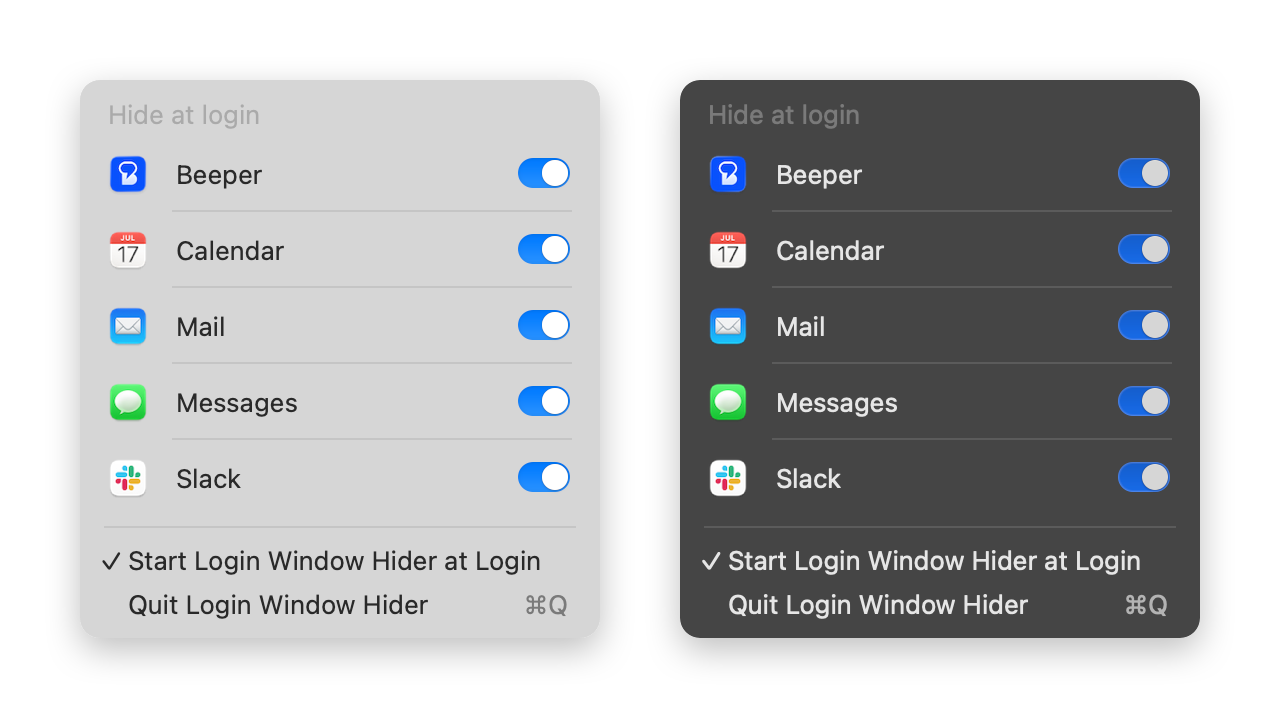
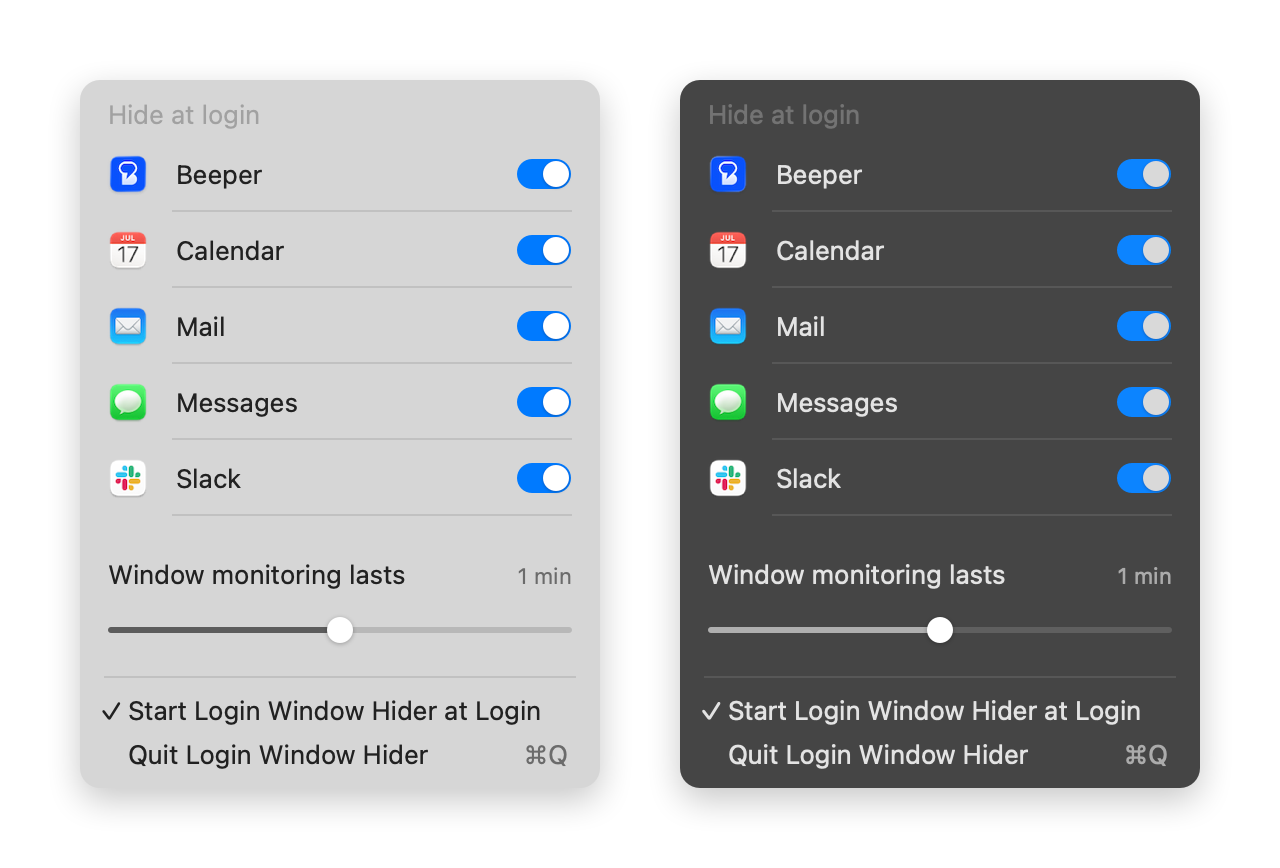
Update the menu screenshot with the monitoring slider
docs/screenshot/make_screenshot.sh re-renders it from the app's own views.

diff --git a/docs/screenshot/make_screenshot.swift b/docs/screenshot/make_screenshot.swift
@@ -1,0 +1,100 @@
+// Renders docs/menu.png, the README screenshot of the menu in light and dark mode.
+// It's appended to the app's own code by make_screenshot.sh, so it uses the app's real row, heading and slider views.
+
+let shotApps = [("com.automattic.beeper.desktop", "Beeper"), ("com.apple.iCal", "Calendar"), ("com.apple.mail", "Mail"),
+                ("com.apple.MobileSMS", "Messages"), ("com.tinyspeck.slackmacgap", "Slack")]
+
+/// An "on" switch as it looks in the open menu (system blue). A command-line render can't become the active app,
+/// so real switches would draw gray here; each one is swapped for this drawing, at the same size and place.
+final class OnSwitchView: NSView {
+    override func draw(_ dirtyRect: NSRect) {
+        let dark = effectiveAppearance.bestMatch(from: [.aqua, .darkAqua]) == .darkAqua
+        let r = bounds.insetBy(dx: 0.5, dy: 0.5), radius = r.height / 2
+        NSColor.systemBlue.setFill()
+        NSBezierPath(roundedRect: r, xRadius: radius, yRadius: radius).fill()
+        let d = r.height - 2
+        let knob = NSRect(x: r.maxX - 1 - d, y: r.minY + 1, width: d, height: d)
+        NSGraphicsContext.saveGraphicsState()
+        let sh = NSShadow(); sh.shadowColor = NSColor.black.withAlphaComponent(0.25); sh.shadowBlurRadius = 1.5; sh.shadowOffset = NSSize(width: 0, height: -0.5); sh.set()
+        (dark ? NSColor(white: 0.85, alpha: 1) : NSColor.white).setFill()
+        NSBezierPath(ovalIn: knob).fill()
+        NSGraphicsContext.restoreGraphicsState()
+    }
+}
+func swapSwitches(in view: NSView) {
+    for sub in view.subviews {
+        if let toggle = sub as? NSSwitch {
+            let drawn = OnSwitchView(frame: toggle.frame)
+            view.replaceSubview(toggle, with: drawn)
+        } else {
+            swapSwitches(in: sub)
+        }
+    }
+}
+
+/// The menu's contents, built from the app's own views.
+func menuPanel(_ mode: NSAppearance.Name) -> NSImage {
+    let w = AppRowView.width, pad: CGFloat = 6, itemH: CGFloat = 22
+    let slider = WatchSliderView()
+    let h = pad + 22 + AppRowView.height * CGFloat(shotApps.count) + slider.frame.height + 11 + itemH * 2 + pad
+    let root = NSView(frame: NSRect(x: 0, y: 0, width: w, height: h))
+    var y = h - pad - 22
+    let head = HeaderView(title: "Hide at login"); head.frame.origin.y = y; root.addSubview(head)
+    for (id, name) in shotApps {
+        y -= AppRowView.height
+        let row = AppRowView(bundleID: id, name: name, showsDivider: true)
+        swapSwitches(in: row)
+        row.frame.origin.y = y; root.addSubview(row)
+    }
+    y -= slider.frame.height
+    slider.frame.origin.y = y; root.addSubview(slider)
+    y -= 11
+    let sep = NSBox(frame: NSRect(x: 12, y: y + 5, width: w - 24, height: 1)); sep.boxType = .separator; root.addSubview(sep)
+    for (t, check, key) in [("Start Login Window Hider at Login", true, ""), ("Quit Login Window Hider", false, "⌘Q")] {
+        y -= itemH
+        let l = NSTextField(labelWithString: t); l.font = .menuFont(ofSize: 0)
+        l.frame = NSRect(x: 22, y: y + 3, width: 232, height: 16); root.addSubview(l)
+        if check { let c = NSTextField(labelWithString: "✓"); c.font = .menuFont(ofSize: 0); c.frame = NSRect(x: 8, y: y + 3, width: 14, height: 16); root.addSubview(c) }
+        if !key.isEmpty { let k = NSTextField(labelWithString: key); k.font = .menuFont(ofSize: 0); k.textColor = .secondaryLabelColor; k.alignment = .right; k.frame = NSRect(x: w - 60, y: y + 3, width: 46, height: 16); root.addSubview(k) }
+    }
+    let win = NSWindow(contentRect: NSRect(x: -4000, y: -4000, width: w, height: h), styleMask: [.borderless], backing: .buffered, defer: false)
+    win.appearance = NSAppearance(named: mode)
+    win.isOpaque = false
+    win.backgroundColor = .clear
+    win.contentView = root
+    root.layoutSubtreeIfNeeded()
+    var img = NSImage()
+    NSAppearance(named: mode)!.performAsCurrentDrawingAppearance {
+        let rep = root.bitmapImageRepForCachingDisplay(in: root.bounds)!
+        root.cacheDisplay(in: root.bounds, to: rep)
+        img = NSImage(size: root.bounds.size)
+        img.addRepresentation(rep)
+    }
+    win.orderOut(nil)
+    return img
+}
+
+NSApplication.shared.setActivationPolicy(.accessory)
+let light = menuPanel(.aqua), dark = menuPanel(.darkAqua)
+let panelW = AppRowView.width, panelH = light.size.height
+let margin: CGFloat = 40, gap: CGFloat = 40
+let canvas = NSSize(width: panelW * 2 + gap + margin * 2, height: panelH + margin * 2)
+let rep = NSBitmapImageRep(bitmapDataPlanes: nil, pixelsWide: Int(canvas.width * 2), pixelsHigh: Int(canvas.height * 2), bitsPerSample: 8, samplesPerPixel: 4, hasAlpha: true, isPlanar: false, colorSpaceName: .deviceRGB, bytesPerRow: 0, bitsPerPixel: 0)!
+rep.size = canvas
+NSGraphicsContext.saveGraphicsState()
+NSGraphicsContext.current = NSGraphicsContext(bitmapImageRep: rep)
+NSColor.white.setFill(); NSRect(origin: .zero, size: canvas).fill()
+for (i, (img, bg)) in [(light, NSColor(white: 0.84, alpha: 1)), (dark, NSColor(white: 0.27, alpha: 1))].enumerated() {
+    let r = NSRect(x: margin + CGFloat(i) * (panelW + gap), y: margin, width: panelW, height: panelH)
+    let shape = NSBezierPath(roundedRect: r, xRadius: 10, yRadius: 10)
+    NSGraphicsContext.saveGraphicsState()
+    let sh = NSShadow(); sh.shadowColor = NSColor.black.withAlphaComponent(0.22); sh.shadowBlurRadius = 18; sh.shadowOffset = NSSize(width: 0, height: -6); sh.set()
+    bg.setFill(); shape.fill()
+    NSGraphicsContext.restoreGraphicsState()
+    NSGraphicsContext.saveGraphicsState()
+    shape.addClip()
+    img.draw(in: r)
+    NSGraphicsContext.restoreGraphicsState()
+}
+NSGraphicsContext.restoreGraphicsState()
+try! rep.representation(using: .png, properties: [:])!.write(to: URL(fileURLWithPath: CommandLine.arguments[1]))

diff --git a/README.md b/README.md
@@ -39,7 +39,7 @@ Login Window Hider brings it back.
 - **Stays out of the way.** No Dock icon, no windows, and it does nothing after the first minute.
 
 <p align="center">
-  <img src="docs/menu.png" width="640" alt="The Login Window Hider menu in light and dark mode, listing login apps with a switch for each">
+  <img src="docs/menu.png" width="640" alt="The Login Window Hider menu in light and dark mode, listing login apps with a switch for each and a Window monitoring lasts slider set to 1 min">
 </p>
 
 ## Install
